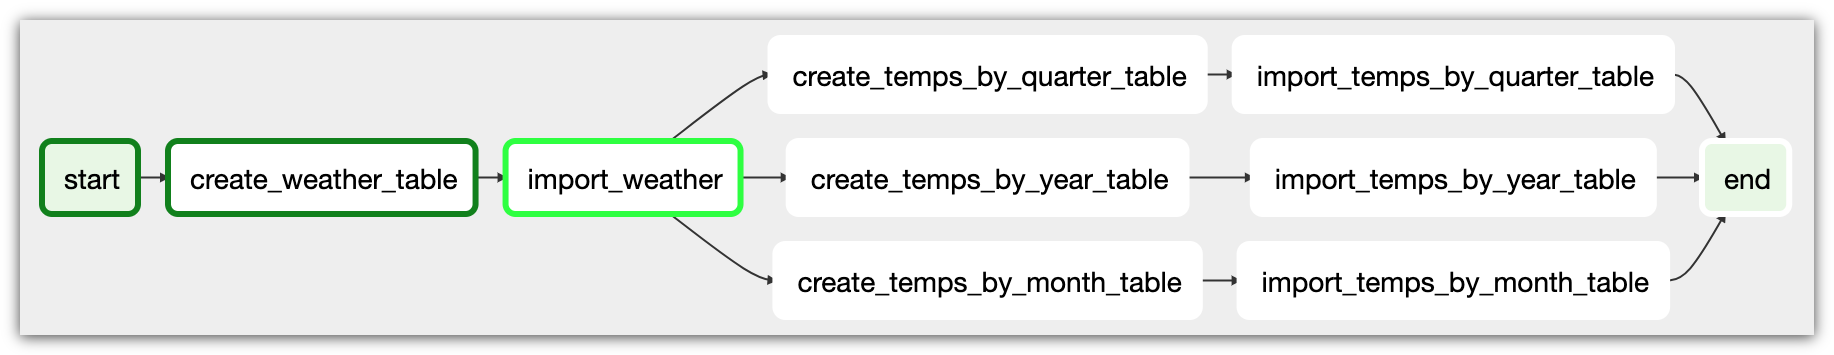
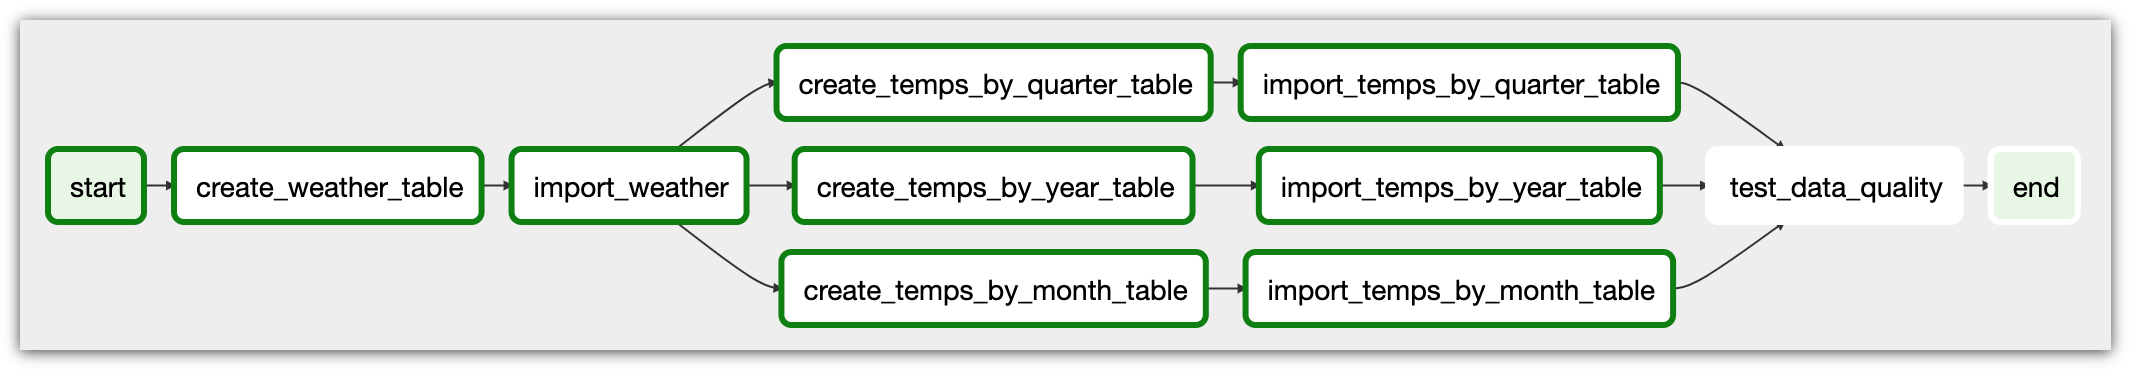
Add a data quality step in the pipeline

diff --git a/src/airflow/plugins/capstone_plugin/operators/data_quality.py b/src/airflow/plugins/capstone_plugin/operators/data_quality.py
@@ -1,0 +1,68 @@
+from airflow.hooks.postgres_hook import PostgresHook
+from airflow.operators import BaseOperator
+from airflow.utils.decorators import apply_defaults
+from capstone_plugin.helpers import queries
+
+
+class DataQualityOperator(BaseOperator):
+
+    """
+    This operator checks the quality of one or more given tables.
+    """
+
+    _available_tables = (
+        'weather_staging',
+        'temps_by_month',
+        'temps_by_quarter',
+        'temps_by_year'
+    )
+
+    @apply_defaults
+    def __init__(
+        self,
+        ddbb_conn_id,
+        tables,
+        *args,
+        **kwargs
+    ):
+
+        """
+        Initializes a new instance of the class DataQualityOperator.
+
+        Parameters:
+            ddbb_conn_id (str): The identifier of the database connection.
+            tables (tuple): The tables on which the quality tests will
+                be performed.
+        """
+
+        super().__init__(*args, **kwargs)
+        self._ddbb_conn_id = ddbb_conn_id
+        self._tables = tables
+
+    def execute(self, context):
+
+        """
+        Runs the quality tests over the given tables.
+
+        Parameters:
+            context (dict): Contains info related to the task instance.
+        """
+
+        postgres = PostgresHook(self._ddbb_conn_id)
+
+        for table in self._tables:
+
+            if table not in self._available_tables:
+                tables = ', '.join(self._available_tables)
+                message = 'Only these tables are supported: {}'.format(tables)
+                raise ValueError(message)
+
+            query = queries.SELECTION_QUERIES['count'].format(table)
+            records = postgres.get_records(query)
+
+            if len(records) == 0 or len(records[0]) == 0 or records[0][0] == 0:
+                message = 'The table {} has not passed the data quality check.'.format(table)
+                raise ValueError(message)
+
+            message = 'The table {} has passed the data quality check with {} records.'.format(table, records[0][0])
+            self.log.info(message)

diff --git a/src/airflow/dags/capstone.py b/src/airflow/dags/capstone.py
@@ -2,6 +2,7 @@ from airflow import DAG
 from datetime import datetime, timedelta
 from airflow.operators.capstone_plugin import AggregateTableOperator
 from airflow.operators.capstone_plugin import CreateTableOperator
+from airflow.operators.capstone_plugin import DataQualityOperator
 from airflow.operators.capstone_plugin import ImportWeatherOperator
 from airflow.operators.dummy_operator import DummyOperator
 
@@ -77,6 +78,17 @@ with DAG('capstone', **options) as dag:
         table='temps_by_year'
     )
 
+    test_data_quality = DataQualityOperator(
+        task_id='test_data_quality',
+        ddbb_conn_id='ddbb_conn',
+        tables=(
+            'weather_staging',
+            'temps_by_month',
+            'temps_by_quarter',
+            'temps_by_year'
+        )
+    )
+
     # Creates the staging table.
     start >> create_weather_table
 
@@ -93,7 +105,10 @@ with DAG('capstone', **options) as dag:
     create_temps_by_quarter_table >> import_temps_by_quarter_table
     create_temps_by_year_table >> import_temps_by_year_table
 
+    # Tests the quality of the tables data.
+    import_temps_by_month_table >> test_data_quality
+    import_temps_by_quarter_table >> test_data_quality
+    import_temps_by_year_table >> test_data_quality
+
     # Pipeline end.
-    import_temps_by_month_table >> end
-    import_temps_by_quarter_table >> end
-    import_temps_by_year_table >> end
+    test_data_quality >> end

diff --git a/src/airflow/plugins/capstone_plugin/__init__.py b/src/airflow/plugins/capstone_plugin/__init__.py
@@ -2,6 +2,7 @@ from airflow.plugins_manager import AirflowPlugin
 from capstone_plugin.hooks.aemet import AemetHook
 from capstone_plugin.operators.aggregate_table import AggregateTableOperator
 from capstone_plugin.operators.create_table import CreateTableOperator
+from capstone_plugin.operators.data_quality import DataQualityOperator
 from capstone_plugin.operators.import_weather import ImportWeatherOperator
 
 
@@ -16,6 +17,7 @@ class CapstonePlugin(AirflowPlugin):
     operators = [
         AggregateTableOperator,
         CreateTableOperator,
+        DataQualityOperator,
         ImportWeatherOperator
     ]
 

diff --git a/src/airflow/plugins/capstone_plugin/operators/aggregate_table.py b/src/airflow/plugins/capstone_plugin/operators/aggregate_table.py
@@ -31,7 +31,7 @@ class AggregateTableOperator(BaseOperator):
 
         Parameters:
             ddbb_conn_id (str): The identifier of the database connection.
-            table (str): The table you want to create.
+            table (str): The table you want to populate.
         """
 
         super().__init__(*args, **kwargs)

diff --git a/src/airflow/plugins/capstone_plugin/helpers/queries.py b/src/airflow/plugins/capstone_plugin/helpers/queries.py
@@ -182,3 +182,8 @@ INSERTION_QUERIES = {
         on conflict on constraint yearly_weather_unique do nothing;
     """
 }
+
+SELECTION_QUERIES = {
+
+    'count': 'select count(*) from {}'
+}

diff --git a/README.md b/README.md
@@ -199,11 +199,11 @@ Turn **On** the switch next to the DAG name to make the Apache Airflow scheduler
 
 You can navigate the DAG details by clicking in its name. The **Graph view** shows a diagram on how the tasks are going to be executed:
 
-<img src="images/airflow-dag-02.png" width="917 " alt="DAG graph view">
+<img src="images/airflow-dag-02.png" width="1064 " alt="DAG graph view">
 
 You can also check how the Apache Airflow scheduler is doing with the DAG tasks on the **Tree view** tab. Dark green means good!
 
-<img src="images/airflow-dag-03.png" width="388" alt="DAG tree view">
+<img src="images/airflow-dag-03.png" width="404" alt="DAG tree view">
 
 ### Analyzing the data<a name="analyzing-the-data"></a>
 
